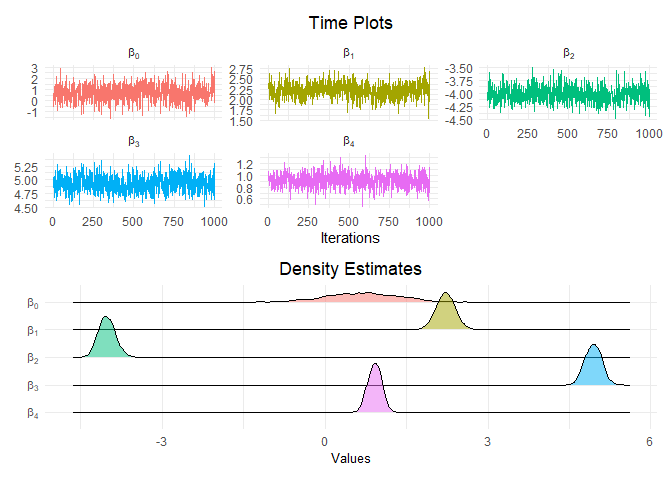
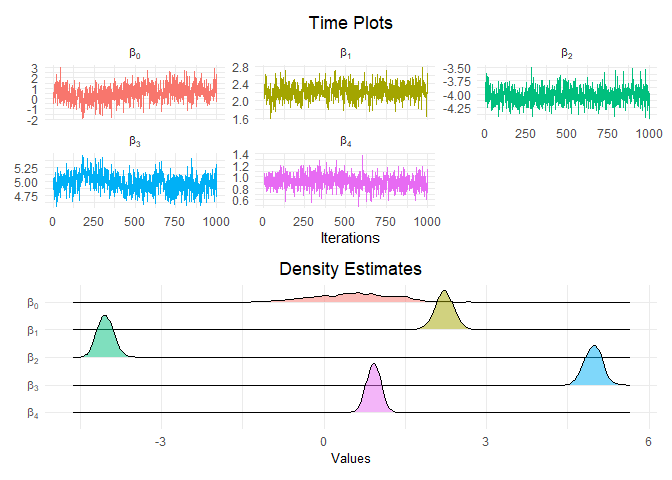
replaced coefficient_sampling_matrices by sampling_matrices

diff --git a/README.md b/README.md
@@ -79,17 +79,17 @@ summary(fit, type = "mcmc_ridge")
 ## 
 ## Location coefficients (identity link function):
 ##           Mean    2.5%     50%  97.5%
-## beta_0  0.6810 -0.7828  0.6806  2.098
-## beta_1  2.2194  1.8784  2.2203  2.555
-## beta_2 -4.0164 -4.2780 -4.0244 -3.707
-## beta_3  4.9386  4.6695  4.9422  5.208
-## beta_4  0.9147  0.6955  0.9178  1.133
+## beta_0  0.5468 -0.9426  0.5800  1.971
+## beta_1  2.2240  1.8702  2.2243  2.543
+## beta_2 -4.0308 -4.2951 -4.0325 -3.739
+## beta_3  4.9699  4.6681  4.9763  5.252
+## beta_4  0.9182  0.6892  0.9198  1.149
 ## 
 ## Scale coefficients (log link function):
 ##              Mean      2.5%       50% 97.5%
-## gamma_0 -0.220360 -0.601008 -0.190793 0.100
-## gamma_1  0.039030 -0.085464  0.043419 0.154
-## gamma_2  0.026578 -0.135393  0.008777 0.205
+## gamma_0  0.104034 -1.170869 -0.003655 1.550
+## gamma_1  0.004717 -0.228834  0.006573 0.168
+## gamma_2 -0.024053 -0.208590 -0.035959 0.189
 ## 
 ## Residual degrees of freedom: 42 
 ## Log-likelihood: -68.83 
@@ -106,16 +106,16 @@ results
 ## # A tibble: 10 x 6
 ##    Parameter `5% Quantile` `Posterior Mean` `Posterior Median` `95% Quantile`
 ##    <chr>             <dbl>            <dbl>              <dbl>          <dbl>
-##  1 beta_0         -0.509             0.681             0.681           1.80  
-##  2 beta_1          1.93              2.22              2.22            2.50  
-##  3 beta_2         -4.25             -4.02             -4.02           -3.76  
-##  4 beta_3          4.70              4.94              4.94            5.17  
-##  5 beta_4          0.722             0.915             0.918           1.11  
-##  6 gamma_0        -0.555            -0.220            -0.191           0.0717
-##  7 gamma_1        -0.0685            0.0390            0.0434          0.140 
-##  8 gamma_2        -0.122             0.0266            0.00878         0.185 
-##  9 tau^2           0.00534           0.0154            0.0118          0.0309
-## 10 xi^2            0.0604            0.227             0.152           0.608 
+##  1 beta_0         -0.711            0.547              0.580           1.72  
+##  2 beta_1          1.95             2.22               2.22            2.50  
+##  3 beta_2         -4.26            -4.03              -4.03           -3.79  
+##  4 beta_3          4.70             4.97               4.98            5.21  
+##  5 beta_4          0.724            0.918              0.920           1.11  
+##  6 gamma_0        -1.03             0.104             -0.00366         1.49  
+##  7 gamma_1        -0.208            0.00472            0.00657         0.158 
+##  8 gamma_2        -0.192           -0.0241            -0.0360          0.159 
+##  9 tau^2           0.00530          0.0153             0.0117          0.0309
+## 10 xi^2            0.0545           0.212              0.140           0.552 
 ## # ... with 1 more variable: Standard Deviation <dbl>
 ```
 
@@ -132,9 +132,9 @@ results %>%
 ## # A tibble: 3 x 2
 ##   Parameter `Standard Deviation`
 ##   <chr>                    <dbl>
-## 1 gamma_0                 0.176 
-## 2 gamma_2                 0.103 
-## 3 gamma_1                 0.0609
+## 1 gamma_0                  0.764
+## 2 gamma_2                  0.115
+## 3 gamma_1                  0.106
 ```
 
 ## Graphical Analysis
@@ -146,10 +146,10 @@ combining multiple chains.
 
 First, we analyze the convergence of the location coefficients. Note
 that the posterior samples are saved in the list entry
-`mcmc_ridge$coefficient_sampling_matrices`:
+`mcmc_ridge$sampling_matrices`:
 
 ``` r
-samples <- fit$mcmc_ridge$coefficient_sampling_matrices
+samples <- fit$mcmc_ridge$sampling_matrices
 
 mult_plot(
   samples = samples$location, type = "both",
